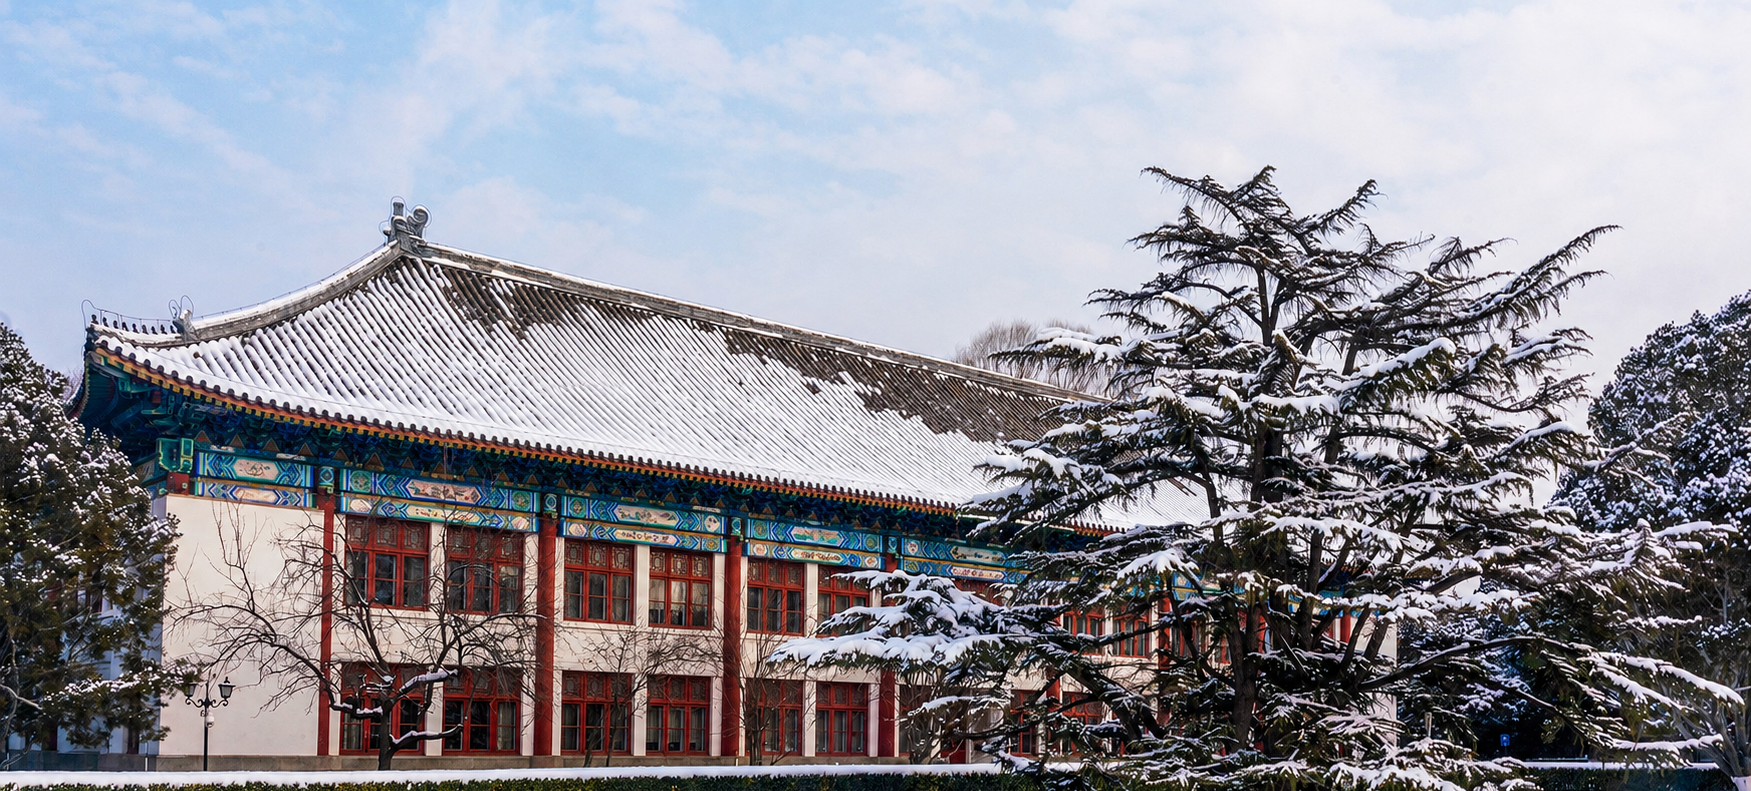
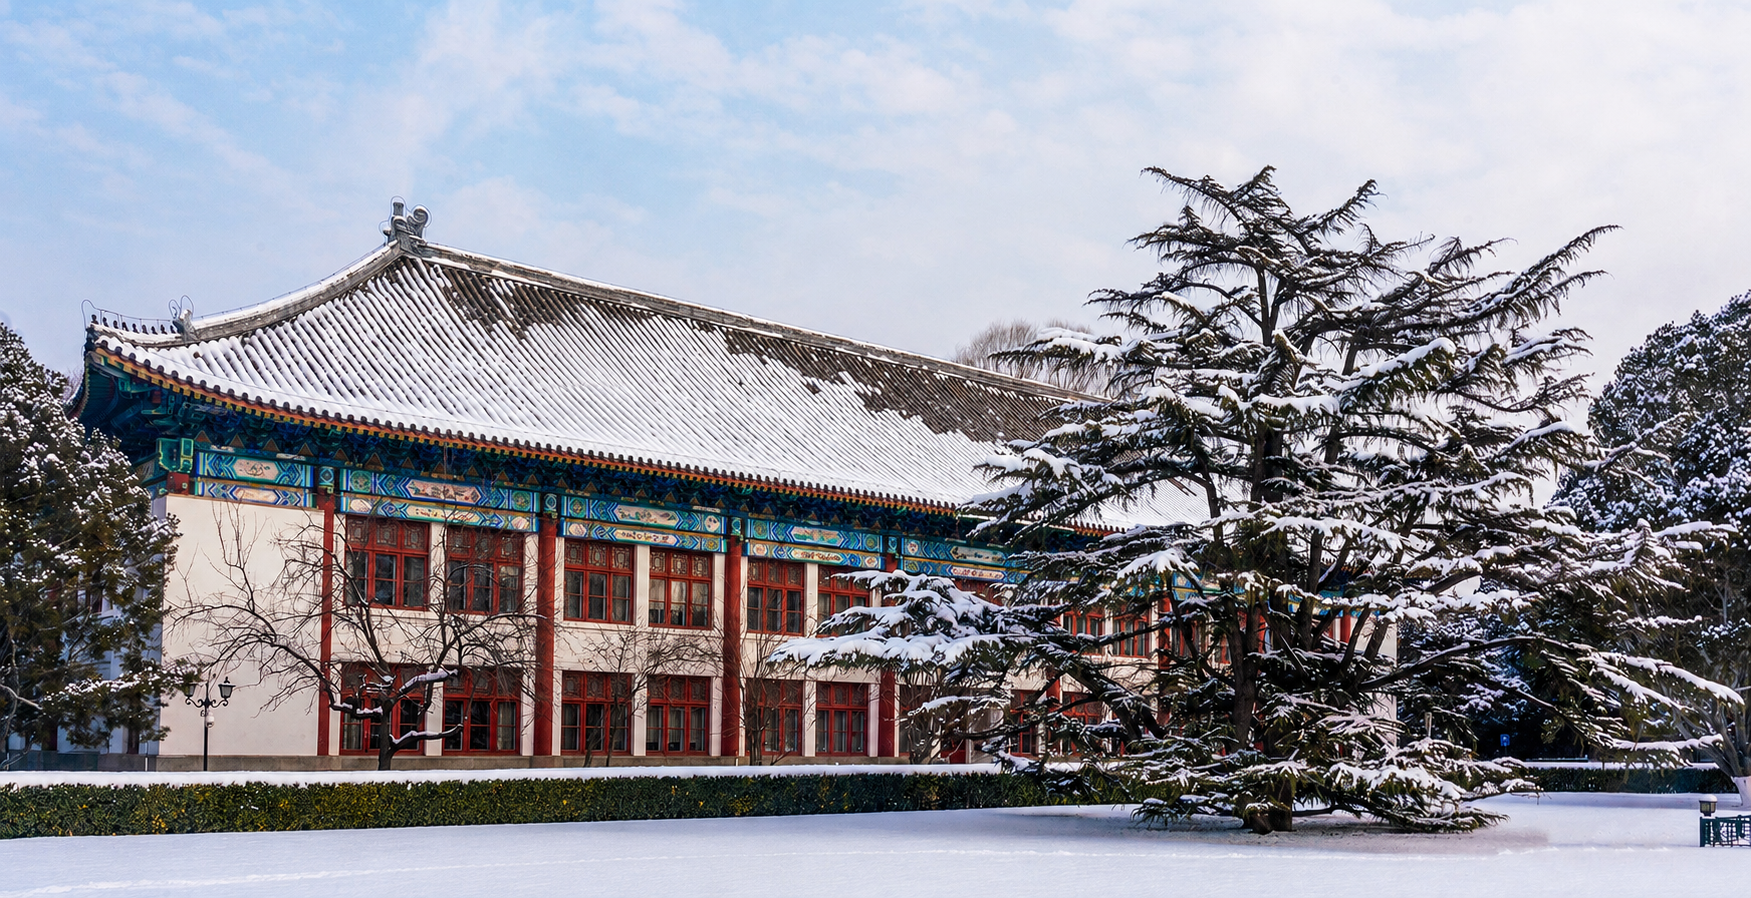
update my site 6-20

diff --git a/assets/css/main.scss b/assets/css/main.scss
@@ -40,3 +40,115 @@
 html[data-theme="dark"] {
   --global-theme-color: #ff6b6b; /* dark mode accent */
 }
+
+/* ---------------------------------------------------------------------------
+   Slimmer top navbar (more compact, like wang-yuke.com).
+   ID-scoped so it wins over the theme's default .navbar / .nav-link padding.
+--------------------------------------------------------------------------- */
+#navbar.navbar {
+  padding-top: 0.2rem;
+  padding-bottom: 0.2rem;
+  min-height: 0;
+}
+
+#navbar .navbar-nav .nav-item .nav-link {
+  padding-top: 0.3rem;
+  padding-bottom: 0.3rem;
+}
+
+/* ---------------------------------------------------------------------------
+   Link text color, independent of the red accent (--global-theme-color).
+   Matches the theme's own `a, table.table a` selector so this wins.
+--------------------------------------------------------------------------- */
+a,
+table.table a {
+  color: #0d3b86; /* dark blue */
+
+  &:hover {
+    color: #082a63; /* even darker on hover */
+  }
+}
+
+/* ---------------------------------------------------------------------------
+   Publications: render each paper as a card, and bold the author's own name.
+   (The theme already underlines the matched author via `.author > em`; the
+   matched author comes from `scholar.last_name`/`first_name` in _config.yml.)
+--------------------------------------------------------------------------- */
+.publications ol.bibliography li {
+  background: var(--global-card-bg-color);
+  border: 1px solid var(--global-divider-color);
+  border-radius: 10px;
+  padding: 1.1rem 1.3rem;
+  box-shadow: 0 1px 4px rgba(0, 0, 0, 0.06);
+  transition:
+    box-shadow 0.2s ease,
+    transform 0.2s ease;
+
+  &:hover {
+    box-shadow: 0 6px 18px rgba(0, 0, 0, 0.1);
+    transform: translateY(-2px);
+  }
+
+  /* author's own name: bold (underline is already applied by the theme) */
+  .author > em {
+    font-weight: 700;
+    border-bottom-width: 2px; /* a touch thicker underline */
+  }
+
+  /* highlighted tags (CCF-A / awards), rendered by _includes/hook/bib.liquid */
+  .pub-tags {
+    display: flex;
+    flex-wrap: wrap;
+    gap: 0.4rem;
+    margin: 0.15rem 0;
+  }
+  .pub-rank,
+  .pub-honor {
+    display: inline-block;
+    padding: 0.05rem 0.5rem;
+    font-size: 0.72rem;
+    font-weight: 700;
+    letter-spacing: 0.03em;
+    color: #fff;
+    border-radius: 6px;
+    vertical-align: middle;
+  }
+  .pub-rank {
+    background: #6a1d2f; /* dark maroon */
+  }
+  .pub-honor {
+    background: #dea450; /* gold */
+    color: #4a2c08; /* dark text for contrast on the lighter gold */
+  }
+}
+
+/* ---------------------------------------------------------------------------
+   Colorful social icons on the left of the navbar (à la otiliastr.github.io).
+   The theme sets the icon color on `i::before`, so override that.
+--------------------------------------------------------------------------- */
+#navbar .navbar-brand.social {
+  display: flex;
+  align-items: center;
+
+  a {
+    margin-right: 0.6rem;
+    line-height: 1;
+  }
+  a:last-child {
+    margin-right: 0;
+  }
+
+  .fa-envelope::before {
+    color: #d44638;
+  } /* email */
+  .ai-google-scholar::before {
+    color: #4285f4;
+  } /* Google Scholar */
+  .fa-linkedin::before {
+    color: #0a66c2;
+  } /* LinkedIn */
+
+  a:hover i::before {
+    filter: brightness(0.82);
+  }
+}

diff --git a/_pages/about.md b/_pages/about.md
@@ -8,7 +8,7 @@ subtitle:
 # _layouts/about.liquid override). Replace `image` with your own banner and
 # tweak the text; remove this whole block to disable the banner.
 banner:
-  image: assets/img/ChatGPT Image 2026年6月20日 00_17_29.png
+  image: assets/img/ChatGPT Image 2026年6月20日 13_15_47.png
   title: "Haozhi Han @ PKU"
   title_color: "#ffffff" # banner title color (white reads best over this bright, busy photo); omit for default white
   tagline: #"Systems & Algorithms for Scalable Physical Intelligence"
@@ -22,7 +22,7 @@ profile:
   more_info: 
 
 selected_papers: true # includes a list of papers marked as "selected={true}"
-social: true # includes social icons at the bottom of the page
+social: false # moved to the navbar (enable_navbar_social); no duplicate icons at the bottom
 
 announcements:
   enabled: false # includes a list of news items
@@ -38,6 +38,6 @@ latest_posts:
 Hi! I am **Haozhi Han** (韩昊知), a Ph.D. student at the [School of Computer Science](https://cs.pku.edu.cn/), [Peking University](https://www.pku.edu.cn/), advised by [Prof. Yifeng Chen](https://cs.pku.edu.cn/info/1062/1606.htm) and [Assistant Prof. Kun Li](https://www.likun.tech/). 
 <!-- I am also a research intern at [Microsoft Research Asia](https://www.microsoft.com/en-us/research/lab/microsoft-research-asia/). -->
 
-My research centers on **high-performance systems and algorithms for scalable physical intelligence — from microscopic science to embodied AI**.
+My research centers on high-performance systems and algorithms for **scalable physical intelligence** — from microscopic science to embodied AI.
 
 My work has appeared at top venues in high-performance systems and algorithms, including **PPoPP** and **SC** (with an **SC 2025 Best Student Paper** nomination). Feel free to reach out via [email](mailto:haozhi.han@stu.pku.edu.cn).
